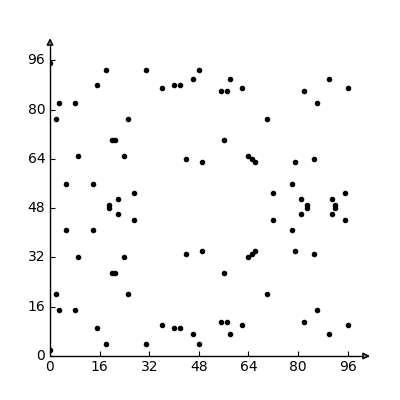
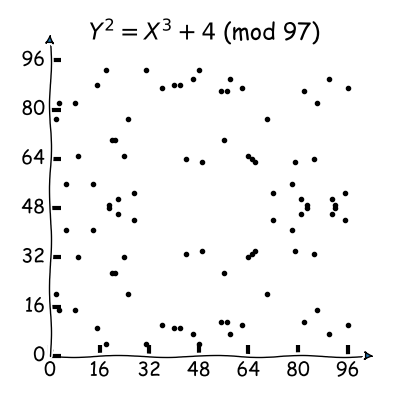
xkcdfy

Changed region(s): [[0.06, 0.09, 0.93, 0.96], [0.21, 0.03, 0.81, 0.12]]

diff --git a/crypto/toy_curve/curve_on_prime_field.py b/crypto/toy_curve/curve_on_prime_field.py
@@ -2,7 +2,6 @@ import matplotlib.pyplot as plt
 from py_ecc.fields.field_elements import FQ
 import mpl_toolkits.axisartist as AA
 
-plt.style.use('grayscale')
 
 q = 97
 
@@ -31,22 +30,23 @@ def gen_points():
 points = list(gen_points())
 print(points)
 xs, y_tops, y_bottoms = list(zip(*points))
-# print(xs, y_tops, y_bottoms)
 
-fig = plt.figure(1, figsize=(4, 4), dpi=100)
-ax = AA.Subplot(fig, 111)
-fig.add_subplot(ax)
-ticks = [16*i for i in range(7)]
-ax.set_xticks(ticks)
-ax.set_yticks(ticks)
-ax.set_xlim(0, 100)
-ax.set_ylim(0, 100)
+with plt.xkcd():
+    fig = plt.figure(1, figsize=(4, 4), dpi=100)
+    ax = AA.Subplot(fig, 111)
+    fig.add_subplot(ax)
+    ticks = [16*i for i in range(7)]
+    ax.set_xticks(ticks)
+    ax.set_yticks(ticks)
+    ax.set_xlim(0, 100)
+    ax.set_ylim(0, 100)
 
-ax.axis["right"].set_visible(False)
-ax.axis["top"].set_visible(False)
-for direction in ["left", "bottom"]:
-    ax.axis[direction].set_axisline_style("-|>")
+    ax.axis["right"].set_visible(False)
+    ax.axis["top"].set_visible(False)
+    for direction in ["left", "bottom"]:
+        ax.axis[direction].set_axisline_style("-|>")
 
-ax.scatter(xs, y_tops, marker='.', c='black')
-ax.scatter(xs, y_bottoms, marker='.', c='black')
+    ax.scatter(xs, y_tops, marker='.', c='black')
+    ax.scatter(xs, y_bottoms, marker='.', c='black')
+    ax.set_title(r'$Y^2 = X^3 + 4$ (mod 97)')
 plt.savefig('toy_curve_on_prime_field.png')

diff --git a/crypto/toy_curve/curve_on_real.py b/crypto/toy_curve/curve_on_real.py
@@ -3,23 +3,20 @@ from py_ecc.fields.field_elements import FQ
 import mpl_toolkits.axisartist as AA
 import numpy as np
 
-
-plt.style.use('grayscale')
-
-
 x = np.linspace(-25.0, 25.0, 100)
 y = np.linspace(-25.0, 25.0, 100)
 X, Y = np.meshgrid(x, y)
 F = X**3 + 4 - Y**2
 
-fig = plt.figure(1, figsize=(4, 4), dpi=100)
-ax = AA.Subplot(fig, 111)
-fig.add_subplot(ax)
-ax.axis["right"].set_visible(False)
-ax.axis["top"].set_visible(False)
-for direction in ["left", "bottom"]:
-    ax.axis[direction].set_axisline_style("-|>")
+with plt.xkcd():
+    fig = plt.figure(1, figsize=(4, 4), dpi=100)
+    ax = AA.Subplot(fig, 111)
+    fig.add_subplot(ax)
+    ax.axis["right"].set_visible(False)
+    ax.axis["top"].set_visible(False)
+    for direction in ["left", "bottom"]:
+        ax.axis[direction].set_axisline_style("-|>")
 
-
-ax.contour(X, Y, F, [0])
+    ax.contour(X, Y, F, [0])
+    ax.set_title(r'$Y^2 = X^3 + 4$ on Real Number')
 plt.savefig('toy_curve_on_real.png')
